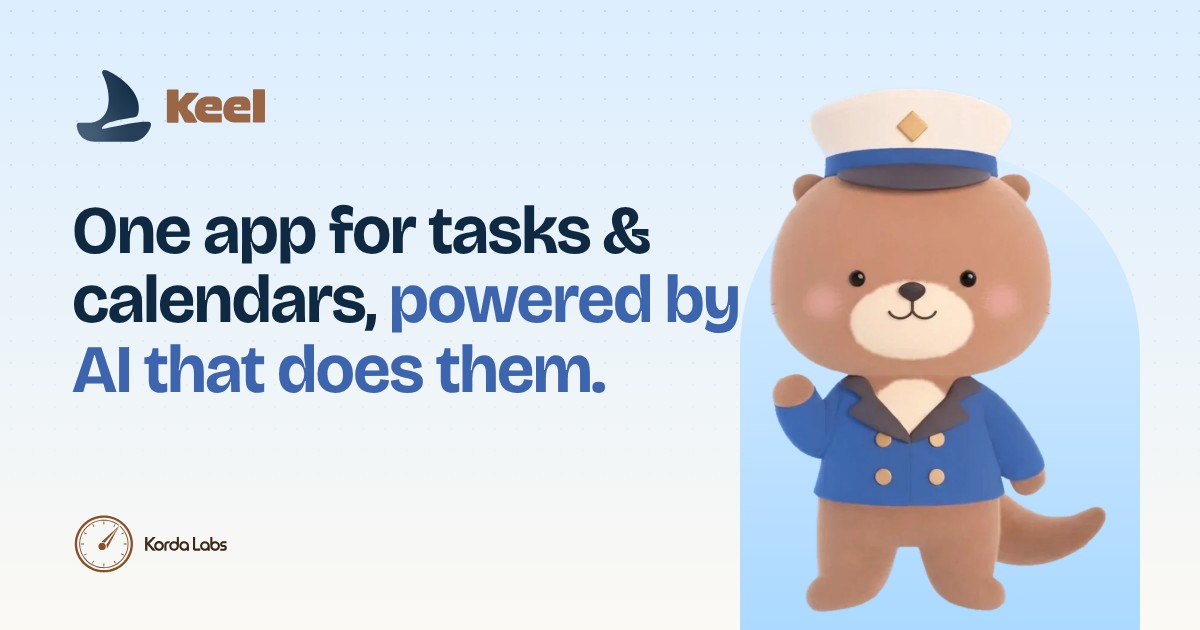
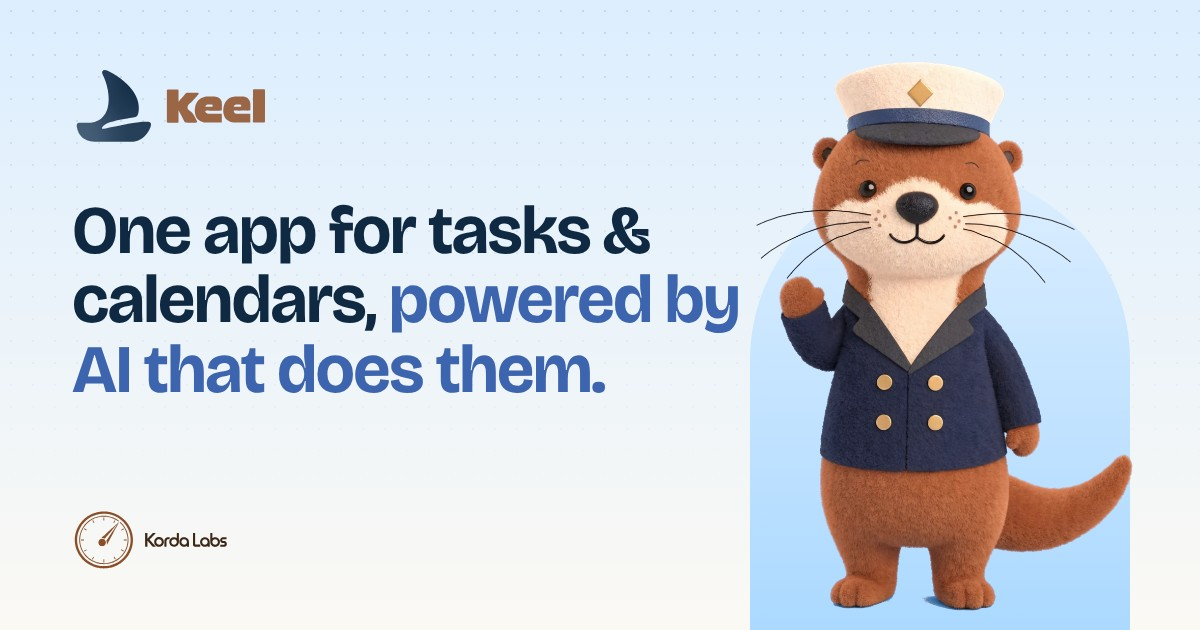
Zoe v2 artwork in left/right poses, plus Compass and Task Manager marks
- Replace the six Zoe cut-outs with the twelve redesigned renders (whiskers, darker coat)
- Each section now uses the pose that faces into its content
- Owl (Compass) and penguin (Task Manager) marks on the agent cards
- New OG image

Claude-Session: https://claude.ai/code/session_01Q4vz9kiYVNQAXiZZkxDWYV

Changed region(s): [[0.6167, 0.0905, 0.9558, 1.0], [0.0617, 0.8143, 0.185, 0.9048]]

diff --git a/components/HomeSections.tsx b/components/HomeSections.tsx
@@ -1,6 +1,6 @@
 import { APP_SIGNUP_URL } from '@/lib/links'
 import Link from 'next/link'
-import { Zoe, ZoeBadge, KeelMark, KordaMark } from '@/components/marks/Brand'
+import { Zoe, ZoeBadge, CrewMark, KeelMark, KordaMark } from '@/components/marks/Brand'
 
 const Arrow = () => (
   <svg width="14" height="14" viewBox="0 0 14 14" fill="none" aria-hidden="true">
@@ -12,8 +12,8 @@ const Arrow = () => (
 
 const crew = [
   { name: 'Zoe', role: 'Skipper', line: 'Takes the order. Runs the crew.', zoe: true },
-  { name: 'Compass', role: 'Navigator', line: 'Holds your goals.' },
-  { name: 'Task Manager', role: 'First mate', line: 'Plans your day.' },
+  { name: 'Compass', role: 'Navigator', line: 'Holds your goals.', mark: 'compass' as const },
+  { name: 'Task Manager', role: 'First mate', line: 'Plans your day.', mark: 'task-manager' as const },
 ]
 
 const specialists = ['Researcher', 'Writer', 'Analyst', 'Builder', 'Designer', '+ more']
@@ -24,7 +24,7 @@ export function CrewSection() {
       <div className="max-w-6xl mx-auto grid grid-cols-1 lg:grid-cols-[minmax(0,5fr)_minmax(0,7fr)] gap-10 lg:gap-16 items-center">
         <div className="relative mx-auto w-56 sm:w-72 lg:w-full lg:max-w-sm">
           <div className="absolute inset-x-4 bottom-0 top-10 rounded-[2.5rem] bg-gradient-to-b from-sky-soft to-sky" aria-hidden="true" />
-          <Zoe pose="point" className="relative w-full h-auto" />
+          <Zoe pose="point-right" className="relative w-[112%] max-w-none h-auto" />
         </div>
 
         <div>
@@ -41,7 +41,7 @@ export function CrewSection() {
             {crew.map((c) => (
               <div key={c.name} className="rounded-2xl border border-mist bg-paper-100 p-5">
                 <div className="flex items-center gap-2 mb-3">
-                  {c.zoe ? <ZoeBadge size={22} /> : <span className="w-2 h-2 rounded-full bg-accent" />}
+                  {c.zoe ? <ZoeBadge size={30} /> : c.mark ? <CrewMark agent={c.mark} size={30} /> : null}
                   <span className="font-mono text-[0.68rem] uppercase tracking-wider text-accent">{c.role}</span>
                 </div>
                 <h3 className="font-display font-bold text-xl text-ink mb-1">{c.name}</h3>
@@ -88,7 +88,7 @@ export function WorkSection() {
               It comes back done.
             </h2>
           </div>
-          <Zoe pose="walk" className="hidden sm:block w-28 lg:w-36 h-auto -mb-4 flex-shrink-0" />
+          <Zoe pose="walk-left" className="hidden sm:block w-28 lg:w-36 h-auto -mb-4 flex-shrink-0" />
         </div>
 
         <div className="grid grid-cols-2 lg:grid-cols-3 gap-3 sm:gap-4">
@@ -137,7 +137,7 @@ export function ControlSection() {
               Security <Arrow />
             </Link>
           </div>
-          <Zoe pose="lounge" className="w-full max-w-md mx-auto h-auto" />
+          <Zoe pose="lounge-left" className="w-full max-w-md mx-auto h-auto" />
         </div>
       </div>
     </section>
@@ -166,8 +166,8 @@ export function StudioCta() {
           </Link>
         </div>
 
-        <div className="relative mt-24 md:mt-0">
-          <Zoe pose="peek" decorative className="absolute left-1/2 -translate-x-1/2 -top-[5.6rem] w-48 h-auto z-0" />
+        <div className="relative mt-32 md:mt-0">
+          <Zoe pose="peek" decorative className="absolute left-1/2 -translate-x-1/2 -top-[7.4rem] w-56 h-auto z-0" />
           <div className="relative z-10 h-full rounded-3xl bg-gradient-to-br from-accent to-navy text-paper p-8 sm:p-10 flex flex-col justify-end min-h-[18rem]">
             <h2 className="font-display font-bold text-4xl sm:text-5xl leading-[1.05] mb-3">Your day, handled.</h2>
             <p className="text-paper/80 mb-7">Free on web.</p>

diff --git a/components/marks/Brand.tsx b/components/marks/Brand.tsx
@@ -29,9 +29,22 @@ export function ZoeBadge({ size = 24, variant = 'color', className }: { size?: n
   return <img src={`/brand/zoe-helm-${variant}.svg`} width={size} height={size} alt="" aria-hidden="true" className={className} />
 }
 
-export type ZoePose = 'wave' | 'salute' | 'point' | 'walk' | 'lounge' | 'peek'
+/** Crew marks — Compass (owl with a telescope) and Task Manager (penguin with a clipboard). */
+export function CrewMark({ agent, size = 28, className }: { agent: 'compass' | 'task-manager'; size?: number; className?: string }) {
+  return <img src={`/brand/${agent}-mark.svg`} width={size} height={size} alt="" aria-hidden="true" className={className} />
+}
 
-const POSE_ALT: Record<ZoePose, string> = {
+/* Zoe poses (v2 render, 2026-11-11). Most poses come in a left and a right version:
+   pick the one that faces or gestures INTO the content beside her. */
+export type ZoePose =
+  | 'wave-left' | 'wave-right'
+  | 'salute-left' | 'salute-right'
+  | 'point-left' | 'point-right'
+  | 'walk-left' | 'walk-right'
+  | 'lounge-left' | 'lounge-right'
+  | 'peek' | 'peek-wave'
+
+const POSE_ALT: Record<string, string> = {
   wave: 'Zoe the otter, in her captain’s coat and cap, waving hello',
   salute: 'Zoe the otter saluting',
   point: 'Zoe the otter pointing the way',
@@ -41,13 +54,13 @@ const POSE_ALT: Record<ZoePose, string> = {
 }
 
 /** Zoe illustration. One pose per section, never two in the same viewport. */
-export function Zoe({ pose, className, decorative = false }: { pose: ZoePose; className?: string; decorative?: boolean }) {
+export function Zoe({ pose, className, decorative = false, eager = false }: { pose: ZoePose; className?: string; decorative?: boolean; eager?: boolean }) {
   return (
     <img
       src={`/zoe/zoe-${pose}.webp`}
-      alt={decorative ? '' : POSE_ALT[pose]}
+      alt={decorative ? '' : POSE_ALT[pose.split('-')[0]]}
       aria-hidden={decorative || undefined}
-      loading={pose === 'wave' ? 'eager' : 'lazy'}
+      loading={eager ? 'eager' : 'lazy'}
       draggable={false}
       className={`select-none pointer-events-none ${className ?? ''}`}
     />

diff --git a/app/products/keel/page.tsx b/app/products/keel/page.tsx
@@ -4,7 +4,7 @@ import { motion, useInView, AnimatePresence } from 'framer-motion'
 import { useRef, useState, useEffect } from 'react'
 import Link from 'next/link'
 import KeelProductDemo from '@/components/KeelProductDemo'
-import { Zoe, ZoeBadge, KeelLockup } from '@/components/marks/Brand'
+import { Zoe, ZoeBadge, CrewMark, KeelLockup } from '@/components/marks/Brand'
 
 // --- Lens component (compact version) ---
 // --- Task Manager Animation ---
@@ -169,6 +169,9 @@ function AgentCard({ agent, index }: { agent: typeof agents[0]; index: number })
     >
       {/* Name */}
       <div className="mb-4">
+        <div className="mb-4">
+          {agent.name === 'Zoe' ? <ZoeBadge size={44} /> : <CrewMark agent={agent.name === 'Compass' ? 'compass' : 'task-manager'} size={44} />}
+        </div>
         <h3 className="font-medium text-lg leading-none text-accent">{agent.name}</h3>
         <p className="text-xs font-medium mt-1 text-accent">
           {agent.role}
@@ -463,7 +466,7 @@ export default function KeelPage() {
           className="relative max-w-3xl mx-auto"
         >
           <div className="flex justify-center mb-8">
-            <Zoe pose="salute" className="w-40 sm:w-48 h-auto" />
+            <Zoe pose="salute-left" eager className="w-40 sm:w-48 h-auto" />
           </div>
           <div className="flex justify-center mb-8">
             <KeelLockup className="h-14 sm:h-16 w-auto" />
@@ -886,6 +889,9 @@ export default function KeelPage() {
       <section className="relative py-40 px-6 text-center overflow-hidden">
         <div className="absolute top-0 left-0 right-0 h-px bg-mist" />
         <div className="relative max-w-2xl mx-auto">
+          <div className="flex justify-center mb-8">
+            <Zoe pose="walk-right" className="w-32 sm:w-36 h-auto" />
+          </div>
           <h2 className="text-3xl sm:text-4xl md:text-5xl font-display font-bold tracking-tight mb-4">
             Your day,
             <br />

diff --git a/components/Hero.tsx b/components/Hero.tsx
@@ -204,9 +204,9 @@ export default function Hero() {
               initial={{ opacity: 0, y: 30 }}
               animate={{ opacity: 1, y: 0 }}
               transition={{ duration: 0.8, delay: 0.9 }}
-              className="absolute z-20 right-5 -top-[8.4rem] w-24 lg:top-auto lg:right-auto lg:-bottom-14 lg:-left-12 lg:w-44"
+              className="absolute z-20 right-5 -top-[8.4rem] w-24 lg:top-auto lg:right-auto lg:-bottom-14 lg:-left-14 lg:w-48"
             >
-              <Zoe pose="wave" className="w-full h-auto animate-bob drop-shadow-xl" />
+              <Zoe pose="wave-left" eager className="w-full h-auto animate-bob drop-shadow-xl" />
             </motion.div>
           </motion.div>
 

diff --git a/app/signup/page.tsx b/app/signup/page.tsx
@@ -30,7 +30,7 @@ export default function SignupPage() {
       <section className="max-w-content mx-auto px-5 md:px-20 py-20 md:py-32">
         <div className="max-w-xl mx-auto text-center">
           <div className="flex justify-center mb-6">
-            <Zoe pose="salute" className="w-36 h-auto" />
+            <Zoe pose="salute-right" eager className="w-36 h-auto" />
           </div>
           <div className="flex justify-center mb-6">
             <KeelLockup className="h-9 w-auto" />

diff --git a/app/coming-soon/ComingSoonContent.tsx b/app/coming-soon/ComingSoonContent.tsx
@@ -47,7 +47,7 @@ export default function ComingSoonClient() {
           className="text-center"
         >
           <div className="flex justify-center mb-10">
-            <Zoe pose="wave" className="w-36 h-auto" />
+            <Zoe pose="wave-right" eager className="w-36 h-auto" />
           </div>
 
           {/* Heading */}

diff --git a/.claude/DESIGN/DESIGN_PRINCIPLES.md b/.claude/DESIGN/DESIGN_PRINCIPLES.md
@@ -41,12 +41,15 @@ Brown is now a garnish (logos, Zoe's fur), never a surface.
 
 ## Zoe placement
 
-- Files: `public/zoe/zoe-{wave,salute,point,walk,lounge,peek}.webp` via `<Zoe pose="…">`.
+- Files: `public/zoe/zoe-{pose}.webp` via `<Zoe pose="…">`. v2 render (2026-11-11): whiskers, darker navy coat, no blush.
+- Poses: `wave`, `salute`, `point`, `walk`, `lounge` each in `-left` and `-right`; plus `peek` and `peek-wave` (behind the cream ball).
+- **Pick the direction that faces or gestures into the content beside her** — never pointing or walking off the page.
 - One pose per section; never two Zoes in one viewport. Pose matches the message:
   wave = hello (hero, coming soon) · point = "here's the crew" · walk = getting work done ·
   lounge = you can relax, you're in control · peek = closing CTA · salute = signup / reporting for duty.
-- Never recolour, redraw, crop mid-face, flip the coat buttons, or put text on her.
+- Never recolour, redraw, crop mid-face, mirror in CSS (use the other file), or put text on her.
 - The helm badge (`<ZoeBadge>`) is her avatar wherever she "speaks" in product UI mocks.
+- Crew marks: `<CrewMark agent="compass">` (owl with a telescope) and `<CrewMark agent="task-manager">` (penguin with a clipboard) — on agent cards only.
 
 ## Layout & feel
 
